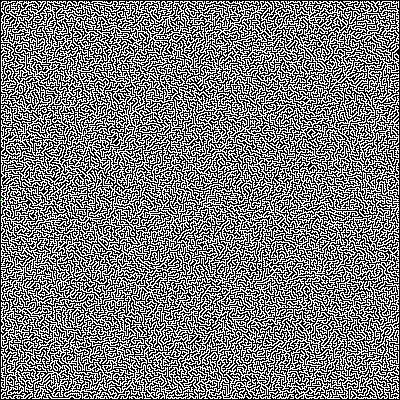
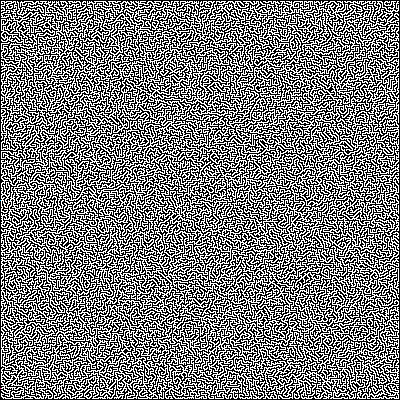
Changing the colour code of the mazes

diff --git a/09-maze_solver/builder/main.go b/09-maze_solver/builder/main.go
@@ -3,7 +3,6 @@ package main
 import (
 	"fmt"
 	"image"
-	"image/color"
 	"image/png"
 	"log/slog"
 	"math/rand"
@@ -24,7 +23,7 @@ func main() {
 	height, _ := strconv.Atoi(os.Args[2])
 
 	maze := generateMaze(width, height)
-	saveToPNG(maze, "maze.png")
+	saveToPNG(maze, fmt.Sprintf("maze%d_%d.png", width, height))
 }
 
 func generateMaze(width int, height int) *image.RGBA {
@@ -33,19 +32,22 @@ func generateMaze(width int, height int) *image.RGBA {
 	// I see a red door...
 	for y := 0; y < height; y++ {
 		for x := 0; x < width; x++ {
-			img.Set(x, y, wall)
+			img.Set(x, y, defaultColours().wallColour)
 		}
 	}
 
 	entry := pos{0, height / 2}
-	img.Set(entry.x, entry.y, path)
+	img.Set(entry.x, entry.y, defaultColours().pathColour)
 
 	// draw the path
 	p := posWithCount{entry, 0}
 
 	const complexity = 2 // change this for easier / creatable mazes, or harder ones.
 	// create a massive channel, because I don't want to start a listener right now.
-	b := &builder{ps: make(chan posWithCount, width*height), width: width - 1, height: height - 1, complexity: complexity * (width + height)}
+	b := &builder{
+		ps: make(chan posWithCount, width*height), width: width - 1, height: height - 1, complexity: complexity * (width + height),
+		conf: defaultColours(),
+	}
 
 	for {
 		// look for eligible places
@@ -54,7 +56,7 @@ func generateMaze(width int, height int) *image.RGBA {
 			break
 		}
 		p = nextPositions[rand.Intn(len(nextPositions))]
-		img.Set(p.x, p.y, path)
+		img.Set(p.x, p.y, b.conf.pathColour)
 		b.ps <- p
 
 		if p.x == 0 || p.x == width-1 || p.y == 0 || p.y == height-1 {
@@ -66,11 +68,13 @@ func generateMaze(width int, height int) *image.RGBA {
 
 	b.completeMaze(img)
 
-	img.Set(entry.x, entry.y, color.RGBA{0, 255, 0, 255})
-	img.Set(b.exit.x, b.exit.y, color.RGBA{255, 0, 0, 255})
 	slog.Info(fmt.Sprintf("Start at %v\n", entry))
 	slog.Info(fmt.Sprintf("End at %v\n", b.exit))
 	slog.Info(fmt.Sprintf("total length: %d\n", b.exit.count))
+
+	img.Set(entry.x, entry.y, b.conf.entranceColour)
+	img.Set(b.exit.x, b.exit.y, b.conf.treasureColour)
+
 	return img
 }
 
@@ -102,6 +106,7 @@ type builder struct {
 	exit          *posWithCount
 	width, height int
 	complexity    int
+	conf          config
 }
 
 func (bldr *builder) allowExit(p posWithCount) bool {
@@ -169,6 +174,8 @@ func (bldr *builder) candidates(img image.Image, pwc posWithCount) []posWithCoun
 	v := pos{pwc.x, pwc.y + 2}
 	w := pos{pwc.x + 1, pwc.y + 2}
 
+	wall := bldr.conf.wallColour
+
 	if /* h */ img.At(h.x, h.y) == wall {
 		if /* g */ img.At(g.x, g.y) == wall &&
 			/* i */ img.At(i.x, i.y) == wall &&
@@ -229,7 +236,7 @@ func (bldr *builder) completeMaze(img *image.RGBA) {
 				break
 			}
 			newPos = nextPositions[rand.Intn(len(nextPositions))]
-			img.Set(newPos.x, newPos.y, path)
+			img.Set(newPos.x, newPos.y, bldr.conf.pathColour)
 			bldr.ps <- newPos
 
 			if newPos.x == 0 || newPos.x == bldr.width || newPos.y == 0 || newPos.y == bldr.height {
@@ -242,10 +249,6 @@ func (bldr *builder) completeMaze(img *image.RGBA) {
 		if len(bldr.ps) == 0 {
 			close(bldr.ps)
 		}
+
 	}
 }
-
-var (
-	wall = color.RGBA{0, 0, 0, 255}
-	path = color.RGBA{255, 255, 255, 255}
-)

diff --git a/09-maze_solver/builder/config.go b/09-maze_solver/builder/config.go
@@ -1,0 +1,21 @@
+package main
+
+import "image/color"
+
+// config contains the colours of the different types of pixels in our maze.
+type config struct {
+	wallColour     color.RGBA
+	pathColour     color.RGBA
+	entranceColour color.RGBA
+	treasureColour color.RGBA
+}
+
+// Get returns the configuration of our maze
+func defaultColours() config {
+	return config{
+		wallColour:     color.RGBA{R: 0, G: 0, B: 0, A: 255},       // black
+		pathColour:     color.RGBA{R: 255, G: 255, B: 255, A: 255}, // white
+		entranceColour: color.RGBA{R: 0, G: 191, B: 255, A: 255},   // deep sky blue
+		treasureColour: color.RGBA{R: 255, G: 0, B: 128, A: 255},   // Pink
+	}
+}
